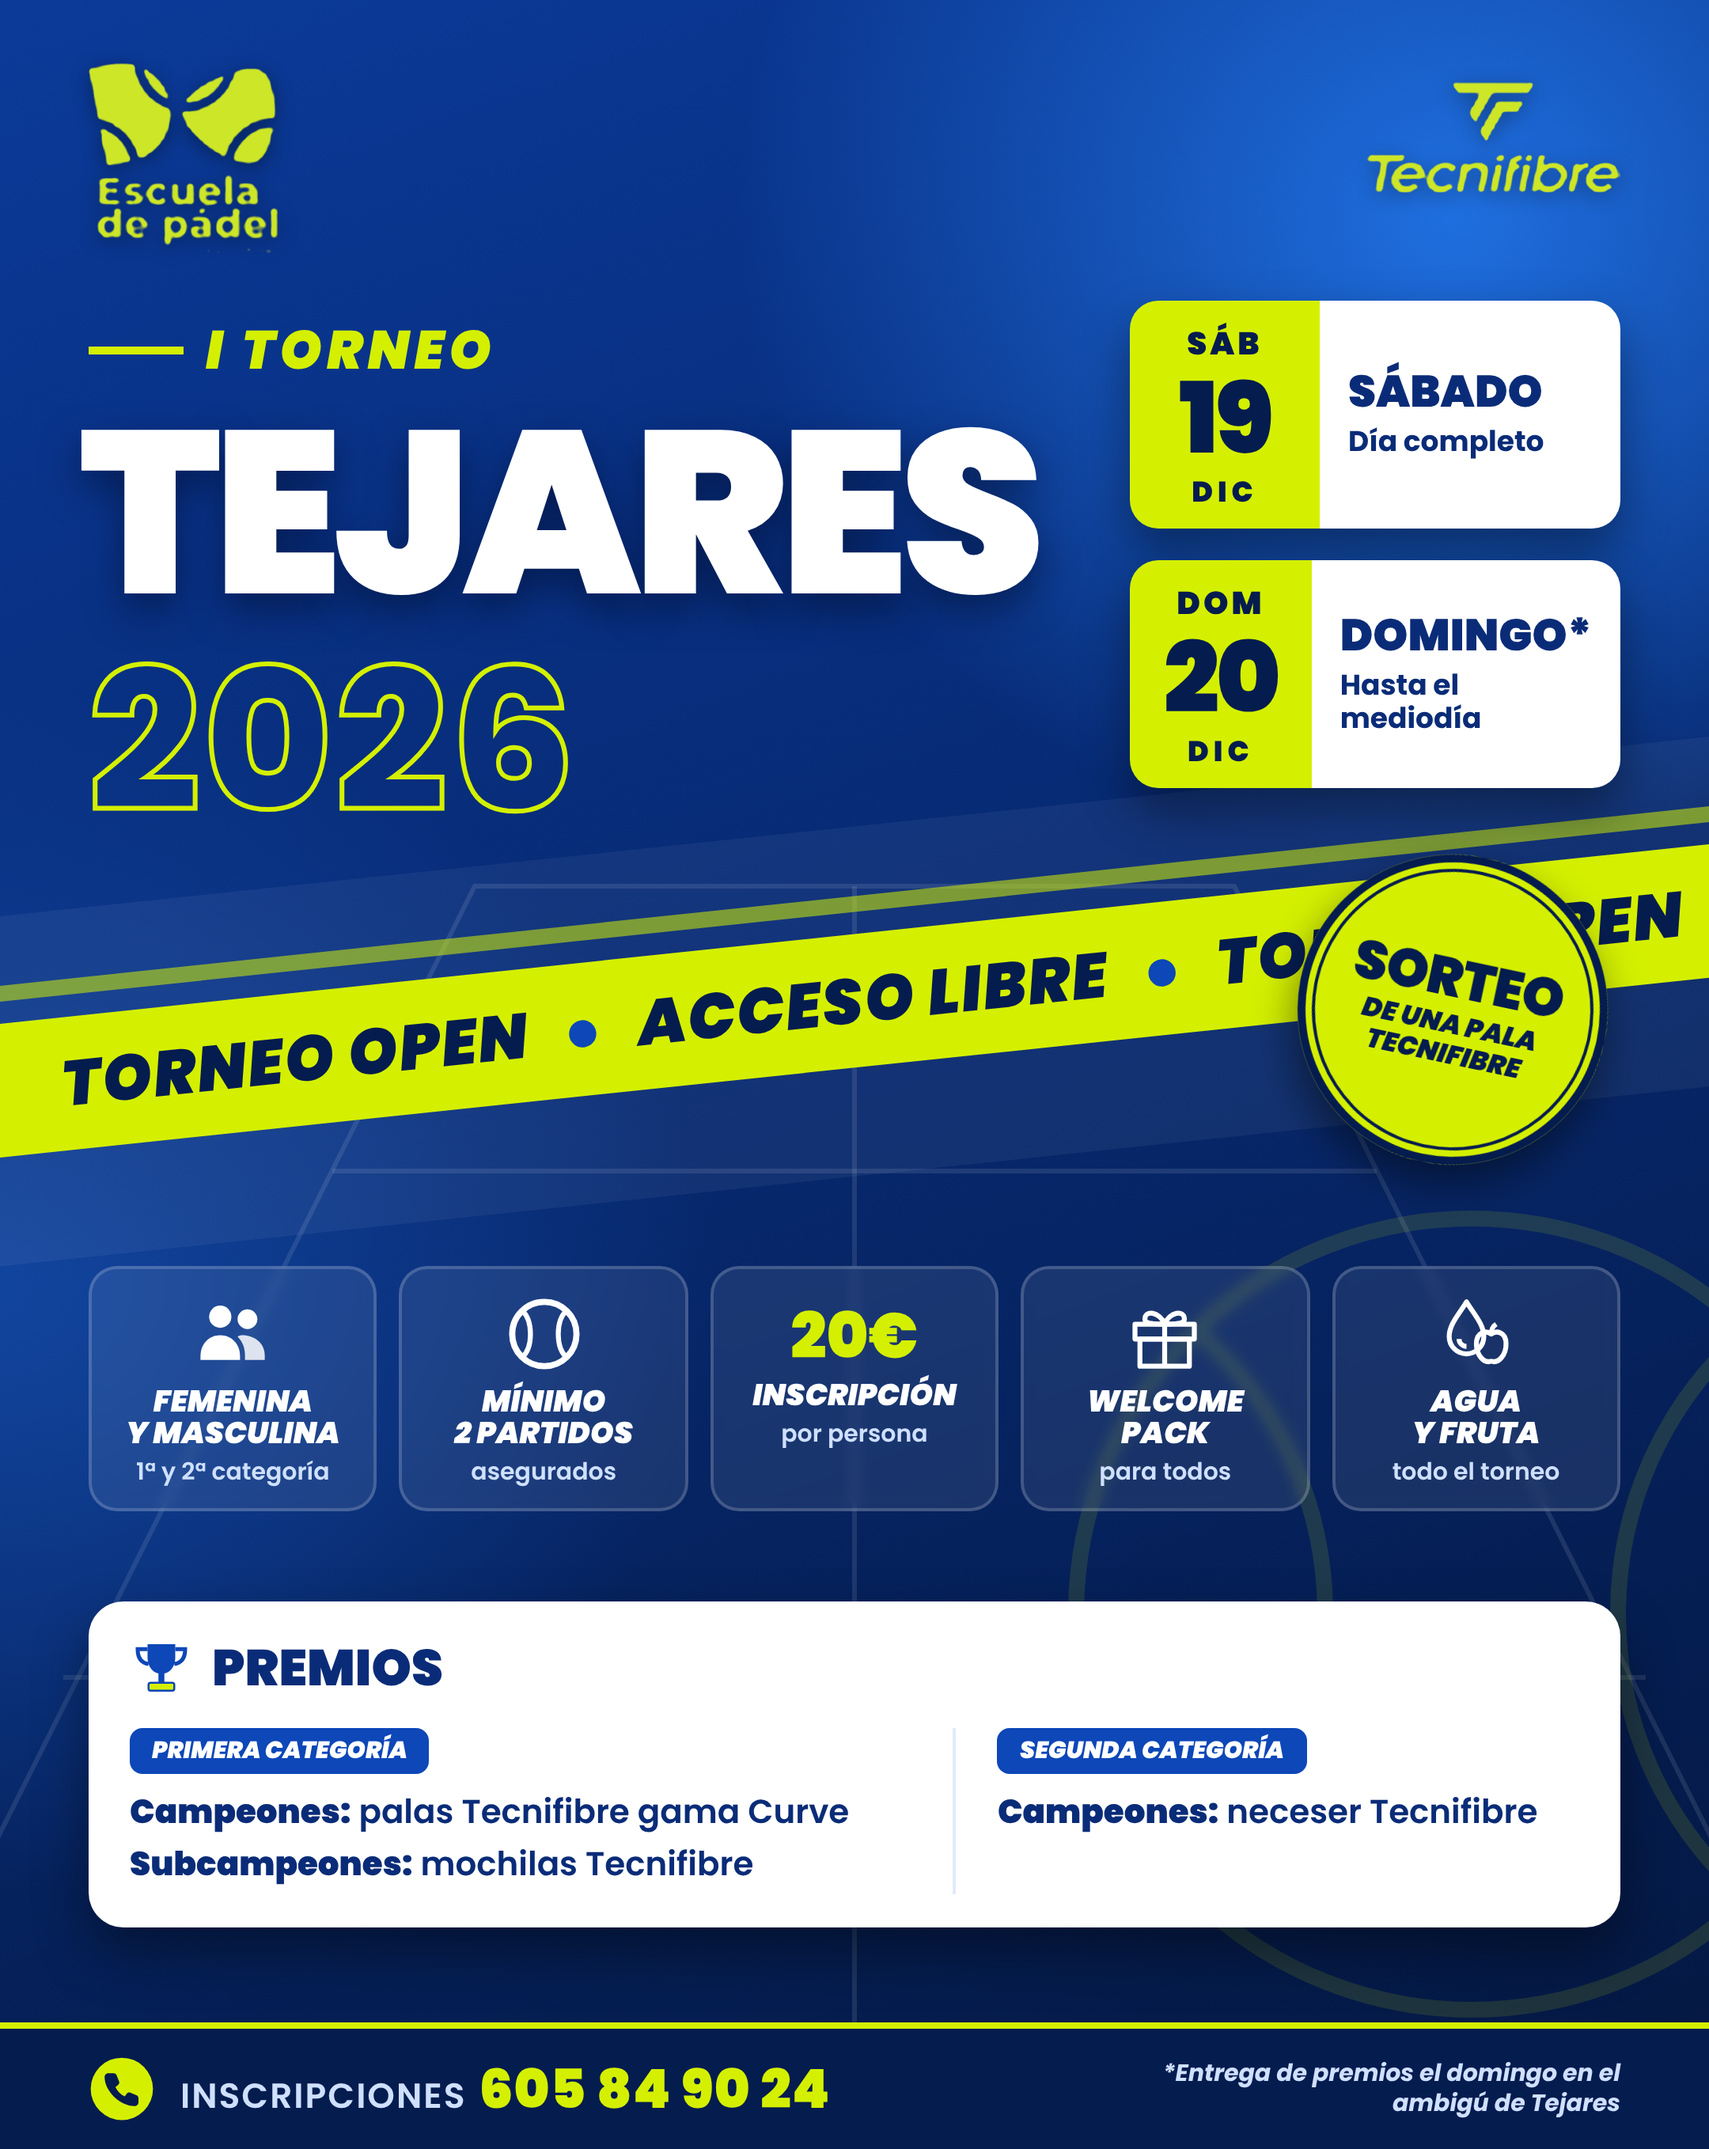
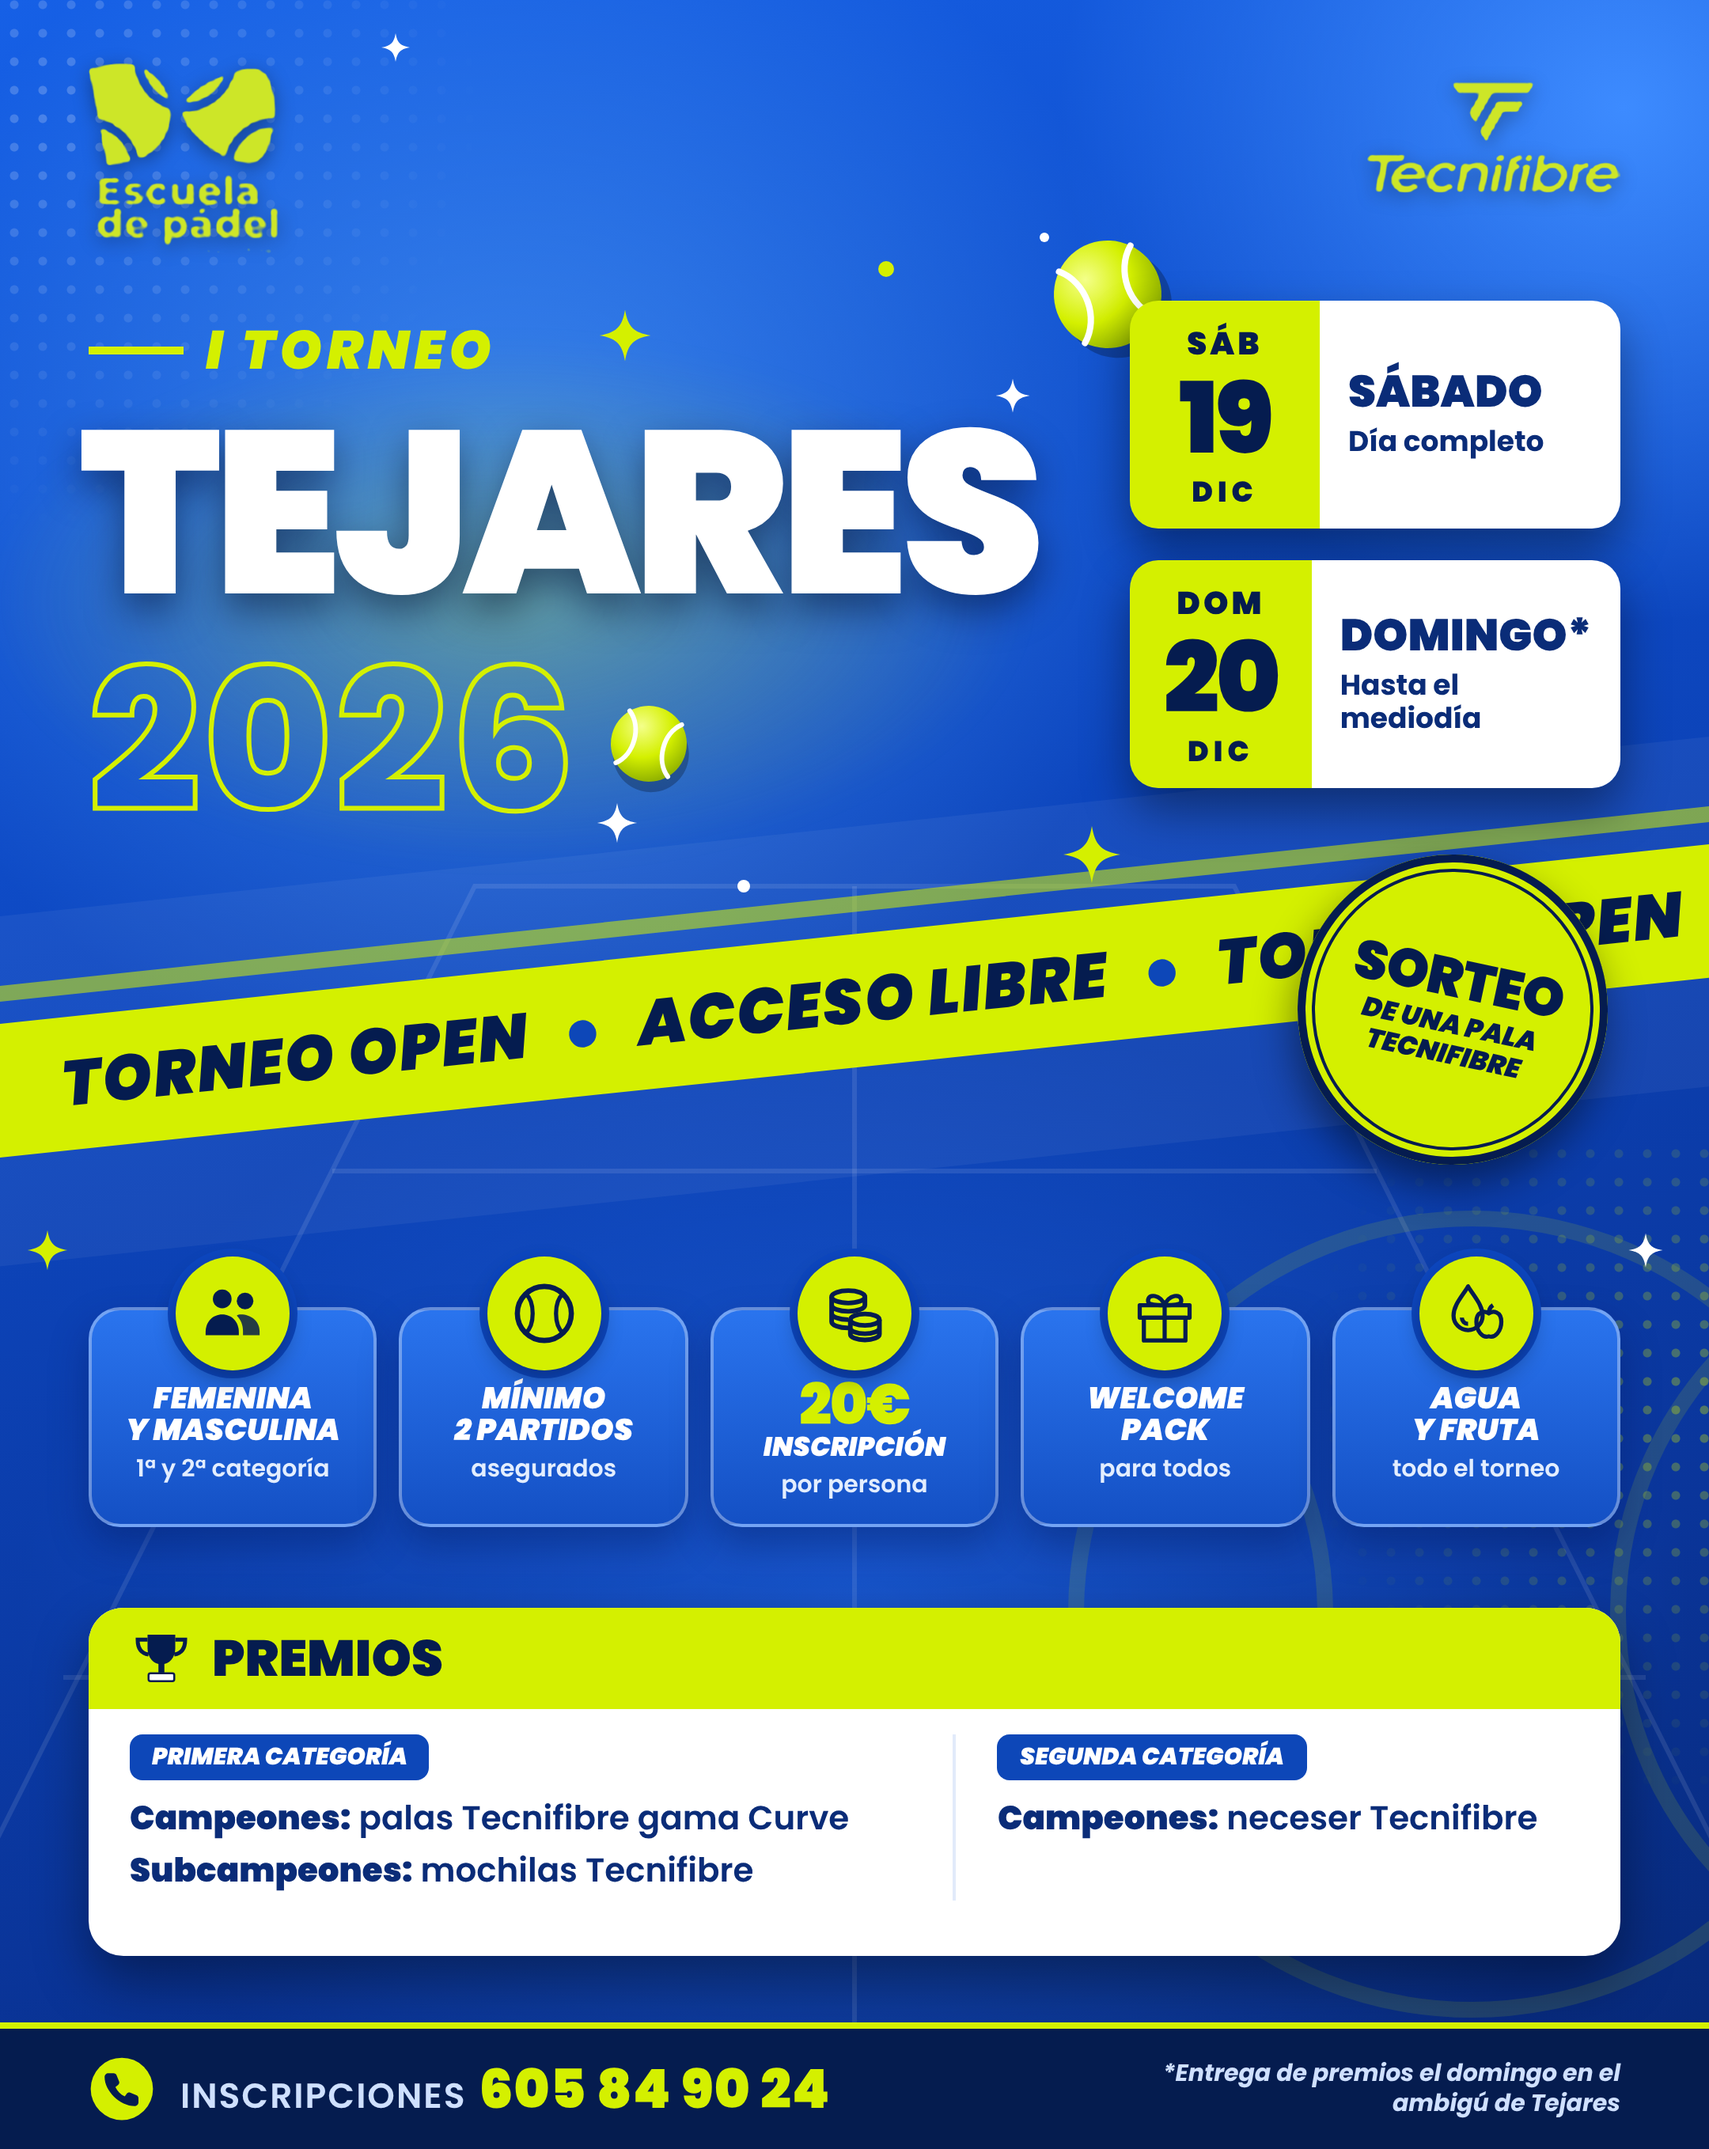
Cartel Tejares: fondo más luminoso, iconos en círculos lima y detalles decorativos
Claude-Session: https://claude.ai/code/session_0171j4B3Eg9Uj72AQuUNZk2r

diff --git a/carteles/torneo_tejares_2026/cartel.html b/carteles/torneo_tejares_2026/cartel.html
@@ -16,9 +16,16 @@
   html,body{background:var(--marino)}
   body{width:1080px;height:1358px;overflow:hidden;font-family:'Poppins',sans-serif;color:var(--blanco)}
   .cartel{position:relative;width:1080px;height:1358px;overflow:hidden;
-          background:radial-gradient(ellipse 70% 50% at 85% 10%, #1f6fe0 0%, transparent 60%),
-                     radial-gradient(ellipse 60% 40% at 0% 60%, #12459e 0%, transparent 70%),
-                     linear-gradient(160deg,#0b3a99 0%,#072a73 45%,#04173f 100%)}
+          background:radial-gradient(ellipse 60% 45% at 30% 22%, rgba(90,170,255,.55) 0%, transparent 65%),
+                     radial-gradient(ellipse 55% 40% at 95% 5%, #3d8bff 0%, transparent 60%),
+                     radial-gradient(ellipse 70% 40% at 50% 75%, rgba(40,120,255,.45) 0%, transparent 70%),
+                     linear-gradient(165deg,#1660e6 0%,#0d47c0 40%,#0a359a 75%,#072774 100%)}
+  /* trama de puntos y destellos */
+  .trama{position:absolute;width:420px;height:420px;background-image:radial-gradient(rgba(255,255,255,.22) 2.5px, transparent 3px);background-size:18px 18px}
+  .trama.t1{left:-90px;top:-60px;-webkit-mask-image:radial-gradient(circle at 30% 30%, #000 0%, transparent 65%);mask-image:radial-gradient(circle at 30% 30%, #000 0%, transparent 65%)}
+  .trama.t2{right:-120px;top:720px;background-image:radial-gradient(rgba(212,240,0,.35) 2.5px, transparent 3px);-webkit-mask-image:radial-gradient(circle at 70% 40%, #000 0%, transparent 65%);mask-image:radial-gradient(circle at 70% 40%, #000 0%, transparent 65%)}
+  .brillo{position:absolute;left:-40px;top:200px;width:720px;height:360px;background:radial-gradient(ellipse at center, rgba(212,240,0,.28) 0%, transparent 65%);filter:blur(10px)}
+  .deco{position:absolute;inset:0;pointer-events:none}
 
   /* Fondo: líneas de pista en perspectiva + franjas diagonales */
   .fondo{position:absolute;inset:0}
@@ -56,18 +63,19 @@
   .dia .der .b{font-weight:700;font-size:18px;line-height:1.2;margin-top:6px}
 
   /* Tarjetas de iconos */
-  .tarjetas{position:absolute;top:800px;left:56px;right:56px;display:grid;grid-template-columns:repeat(5,1fr);gap:14px}
-  .tj{background:rgba(255,255,255,.08);border:2px solid rgba(255,255,255,.18);border-radius:18px;padding:16px 10px 14px;text-align:center;backdrop-filter:blur(4px)}
-  .tj svg{width:50px;height:50px;display:block;margin:0 auto 8px}
+  .tarjetas{position:absolute;top:826px;left:56px;right:56px;display:grid;grid-template-columns:repeat(5,1fr);gap:14px}
+  .tj{position:relative;background:linear-gradient(180deg,#2a74ee 0%,#1450c4 100%);border:2px solid rgba(255,255,255,.35);border-radius:20px;padding:46px 10px 16px;text-align:center;box-shadow:0 12px 24px rgba(0,20,80,.35)}
+  .tj .ico{position:absolute;left:50%;top:-34px;transform:translateX(-50%);width:72px;height:72px;border-radius:50%;background:var(--lima);display:flex;align-items:center;justify-content:center;box-shadow:0 6px 14px rgba(0,0,0,.3), 0 0 0 5px #0d47c0}
+  .tj .ico svg{width:42px;height:42px}
   .tj .t1{font-weight:900;font-style:italic;font-size:19px;line-height:1.05;text-transform:uppercase}
-  .tj .t2{font-weight:600;font-size:15px;line-height:1.2;margin-top:5px;color:#cfe0ff}
-  .tj .grande{font-family:'Poppins',sans-serif;font-weight:900;font-size:40px;line-height:1.1;color:var(--lima)}
+  .tj .t2{font-weight:600;font-size:15px;line-height:1.2;margin-top:5px;color:#e3eeff}
+  .tj .grande{font-family:'Poppins',sans-serif;font-weight:900;font-size:30px;line-height:1;color:var(--marino);letter-spacing:-1px}
 
   /* Premios (panel blanco) */
-  .premios{position:absolute;left:56px;right:56px;top:1012px;height:206px;background:var(--blanco);color:var(--marino2);border-radius:22px;padding:22px 26px;box-shadow:0 16px 34px rgba(0,0,0,.4)}
-  .premios h3{font-family:'Poppins',sans-serif;font-weight:900;font-size:32px;letter-spacing:0;line-height:1;display:flex;align-items:center;gap:12px}
+  .premios{position:absolute;left:56px;right:56px;top:1016px;height:220px;background:var(--blanco);color:var(--marino2);border-radius:22px;padding:0 26px 20px;overflow:hidden;box-shadow:0 16px 34px rgba(0,0,0,.4)}
+  .premios h3{font-family:'Poppins',sans-serif;font-weight:900;font-size:32px;letter-spacing:0;line-height:1;display:flex;align-items:center;gap:12px;background:var(--lima);margin:0 -26px;padding:12px 26px;color:var(--marino)}
   .premios h3 svg{width:40px;height:40px}
-  .cats{display:grid;grid-template-columns:1.25fr 1fr;gap:26px;margin-top:6px}
+  .cats{display:grid;grid-template-columns:1.25fr 1fr;gap:26px;margin-top:4px}
   .cats .col + .col{border-left:2px solid #e2ebfa;padding-left:26px}
   .cat{margin-top:12px}
   .cat .etq{background:var(--azul);color:var(--blanco);font-weight:900;font-style:italic;font-size:15px;line-height:1.1;padding:6px 14px;border-radius:8px;text-transform:uppercase;display:inline-block}
@@ -108,10 +116,40 @@
         <path d="M-175 -180c110 95 110 265 0 360M175 -180c-110 95-110 265 0 360" fill="none" stroke="#d4f000" stroke-width="10"/>
       </g>
     </svg>
+    <div class="brillo"></div>
+    <div class="trama t1"></div>
+    <div class="trama t2"></div>
     <div class="franja f3"></div>
     <div class="franja f1"><span>TORNEO OPEN<em>●</em>ACCESO LIBRE<em>●</em>TORNEO OPEN<em>●</em>ACCESO LIBRE</span></div>
     <div class="franja f2"></div>
   </div>
+
+  <svg class="deco" width="1080" height="1358" viewBox="0 0 1080 1358" xmlns="http://www.w3.org/2000/svg">
+    <defs>
+      <path id="star" d="M0-18C2-6 6-2 18 0 6 2 2 6 0 18-2 6-6 2-18 0-6-2-2-6 0-18z"/>
+      <radialGradient id="bola" cx=".35" cy=".3" r=".75"><stop offset="0" stop-color="#f4ff8a"/><stop offset=".55" stop-color="#d4f000"/><stop offset="1" stop-color="#8fb000"/></radialGradient>
+    </defs>
+    <use href="#star" transform="translate(395 212) scale(.9)" fill="#d4f000"/>
+    <use href="#star" transform="translate(640 250) scale(.6)" fill="#ffffff"/>
+    <use href="#star" transform="translate(390 520) scale(.7)" fill="#ffffff"/>
+    <use href="#star" transform="translate(690 540) scale(1)" fill="#d4f000"/>
+    <use href="#star" transform="translate(250 30) scale(.5)" fill="#ffffff"/>
+    <use href="#star" transform="translate(1040 790) scale(.6)" fill="#ffffff"/>
+    <use href="#star" transform="translate(30 790) scale(.7)" fill="#d4f000"/>
+    <circle cx="560" cy="170" r="5" fill="#d4f000"/><circle cx="470" cy="560" r="4" fill="#fff"/><circle cx="660" cy="150" r="3" fill="#fff"/>
+    <!-- pelota sobre el calendario -->
+    <g transform="translate(700 186) rotate(-20)">
+      <ellipse cx="4" cy="8" rx="34" ry="34" fill="rgba(0,0,0,.25)"/>
+      <circle r="34" fill="url(#bola)"/>
+      <path d="M-24 -24c14 12 14 36 0 48M24 -24c-14 12-14 36 0 48" fill="none" stroke="#fff" stroke-width="4" stroke-linecap="round"/>
+    </g>
+    <!-- pelota sobre 2026 -->
+    <g transform="translate(410 470) rotate(15)">
+      <ellipse cx="3" cy="6" rx="24" ry="24" fill="rgba(0,0,0,.25)"/>
+      <circle r="24" fill="url(#bola)"/>
+      <path d="M-17 -17c10 8 10 26 0 34M17 -17c-10 8-10 26 0 34" fill="none" stroke="#fff" stroke-width="3" stroke-linecap="round"/>
+    </g>
+  </svg>
 
   <img class="logo esc" src="assets/logo_escuela.png" alt="Escuela de pádel">
   <img class="logo tec" src="assets/logo_tecnifibre.png" alt="Tecnifibre">
@@ -140,30 +178,31 @@
   <!-- Tarjetas -->
   <div class="tarjetas">
     <div class="tj">
-      <svg viewBox="0 0 64 64" fill="#fff"><circle cx="22" cy="18" r="9"/><circle cx="44" cy="20" r="8"/><path d="M6 50c0-10 7-17 16-17s16 7 16 17v3H6z"/><path d="M40 33c9 0 18 6 18 16v4H42v-4c0-6-2-11-6-15 1-.6 2.5-1 4-1z" opacity=".85"/></svg>
+      <div class="ico"><svg viewBox="0 0 64 64" fill="#051c4f"><circle cx="22" cy="18" r="9"/><circle cx="44" cy="20" r="8"/><path d="M6 50c0-10 7-17 16-17s16 7 16 17v3H6z"/><path d="M40 33c9 0 18 6 18 16v4H42v-4c0-6-2-11-6-15 1-.6 2.5-1 4-1z" opacity=".85"/></svg></div>
       <div class="t1">Femenina<br>y masculina</div><div class="t2">1ª y 2ª categoría</div>
     </div>
     <div class="tj">
-      <svg viewBox="0 0 64 64"><circle cx="32" cy="32" r="26" fill="none" stroke="#fff" stroke-width="5"/><path d="M14 13c9 8 9 30 0 38M50 13c-9 8-9 30 0 38" fill="none" stroke="#fff" stroke-width="4"/></svg>
+      <div class="ico"><svg viewBox="0 0 64 64"><circle cx="32" cy="32" r="26" fill="none" stroke="#051c4f" stroke-width="5"/><path d="M14 13c9 8 9 30 0 38M50 13c-9 8-9 30 0 38" fill="none" stroke="#051c4f" stroke-width="4"/></svg></div>
       <div class="t1">Mínimo<br>2 partidos</div><div class="t2">asegurados</div>
     </div>
     <div class="tj">
-      <div class="grande" style="margin:4px 0 6px">20€</div>
-      <div class="t1">Inscripción</div><div class="t2">por persona</div>
+      <div class="ico"><svg viewBox="0 0 64 64" fill="none" stroke="#051c4f" stroke-width="4.5"><ellipse cx="26" cy="16" rx="16" ry="6"/><path d="M10 16v8c0 3.3 7.2 6 16 6s16-2.7 16-6v-8M10 24v8c0 3.3 7.2 6 16 6M10 32v8c0 3.3 7.2 6 16 6"/><ellipse cx="42" cy="38" rx="14" ry="5.5"/><path d="M28 38v8c0 3 6.3 5.5 14 5.5S56 49 56 46v-8M28 46v6c0 3 6.3 5.5 14 5.5S56 55 56 52v-6"/></svg></div>
+      <div class="grande" style="color:var(--lima);font-size:36px;margin:-4px 0 0">20€</div>
+      <div class="t1" style="font-size:17px">Inscripción</div><div class="t2">por persona</div>
     </div>
     <div class="tj">
-      <svg viewBox="0 0 64 64" fill="none" stroke="#fff" stroke-width="4" stroke-linejoin="round"><rect x="8" y="24" width="48" height="12"/><rect x="12" y="36" width="40" height="22"/><path d="M32 24v34"/><path d="M32 24c-4-10-16-12-16-4 0 4 8 4 16 4zM32 24c4-10 16-12 16-4 0 4-8 4-16 4z"/></svg>
+      <div class="ico"><svg viewBox="0 0 64 64" fill="none" stroke="#051c4f" stroke-width="4" stroke-linejoin="round"><rect x="8" y="24" width="48" height="12"/><rect x="12" y="36" width="40" height="22"/><path d="M32 24v34"/><path d="M32 24c-4-10-16-12-16-4 0 4 8 4 16 4zM32 24c4-10 16-12 16-4 0 4-8 4-16 4z"/></svg></div>
       <div class="t1">Welcome<br>pack</div><div class="t2">para todos</div>
     </div>
     <div class="tj">
-      <svg viewBox="0 0 64 64" fill="none" stroke="#fff" stroke-width="4" stroke-linejoin="round"><path d="M24 6C18 16 10 24 10 34a14 14 0 0 0 28 0C38 24 30 16 24 6z"/><path d="M18 36a6 6 0 0 0 6 6"/><path d="M44 32c-4-3-12-2-12 8 0 9 6 16 12 14 6 2 12-5 12-14 0-10-8-11-12-8z"/><path d="M44 32c0-4 1-6 4-8"/></svg>
+      <div class="ico"><svg viewBox="0 0 64 64" fill="none" stroke="#051c4f" stroke-width="4" stroke-linejoin="round"><path d="M24 6C18 16 10 24 10 34a14 14 0 0 0 28 0C38 24 30 16 24 6z"/><path d="M18 36a6 6 0 0 0 6 6"/><path d="M44 32c-4-3-12-2-12 8 0 9 6 16 12 14 6 2 12-5 12-14 0-10-8-11-12-8z"/><path d="M44 32c0-4 1-6 4-8"/></svg></div>
       <div class="t1">Agua<br>y fruta</div><div class="t2">todo el torneo</div>
     </div>
   </div>
 
   <!-- Premios -->
   <div class="premios">
-    <h3><svg viewBox="0 0 64 64"><path d="M18 8h28v14c0 9-6 16-14 16S18 31 18 22z" fill="#0d47b8"/><path d="M18 13H8c0 9 4 14 11 15M46 13h10c0 9-4 14-11 15" fill="none" stroke="#0d47b8" stroke-width="4"/><rect x="29" y="37" width="6" height="10" fill="#0d47b8"/><rect x="19" y="47" width="26" height="8" rx="2" fill="#d4f000" stroke="#0d47b8" stroke-width="2"/></svg>PREMIOS</h3>
+    <h3><svg viewBox="0 0 64 64"><path d="M18 8h28v14c0 9-6 16-14 16S18 31 18 22z" fill="#051c4f"/><path d="M18 13H8c0 9 4 14 11 15M46 13h10c0 9-4 14-11 15" fill="none" stroke="#051c4f" stroke-width="4"/><rect x="29" y="37" width="6" height="10" fill="#051c4f"/><rect x="19" y="47" width="26" height="8" rx="2" fill="#fff" stroke="#051c4f" stroke-width="2"/></svg>PREMIOS</h3>
     <div class="cats">
       <div class="col cat">
         <div class="etq">Primera categoría</div>
